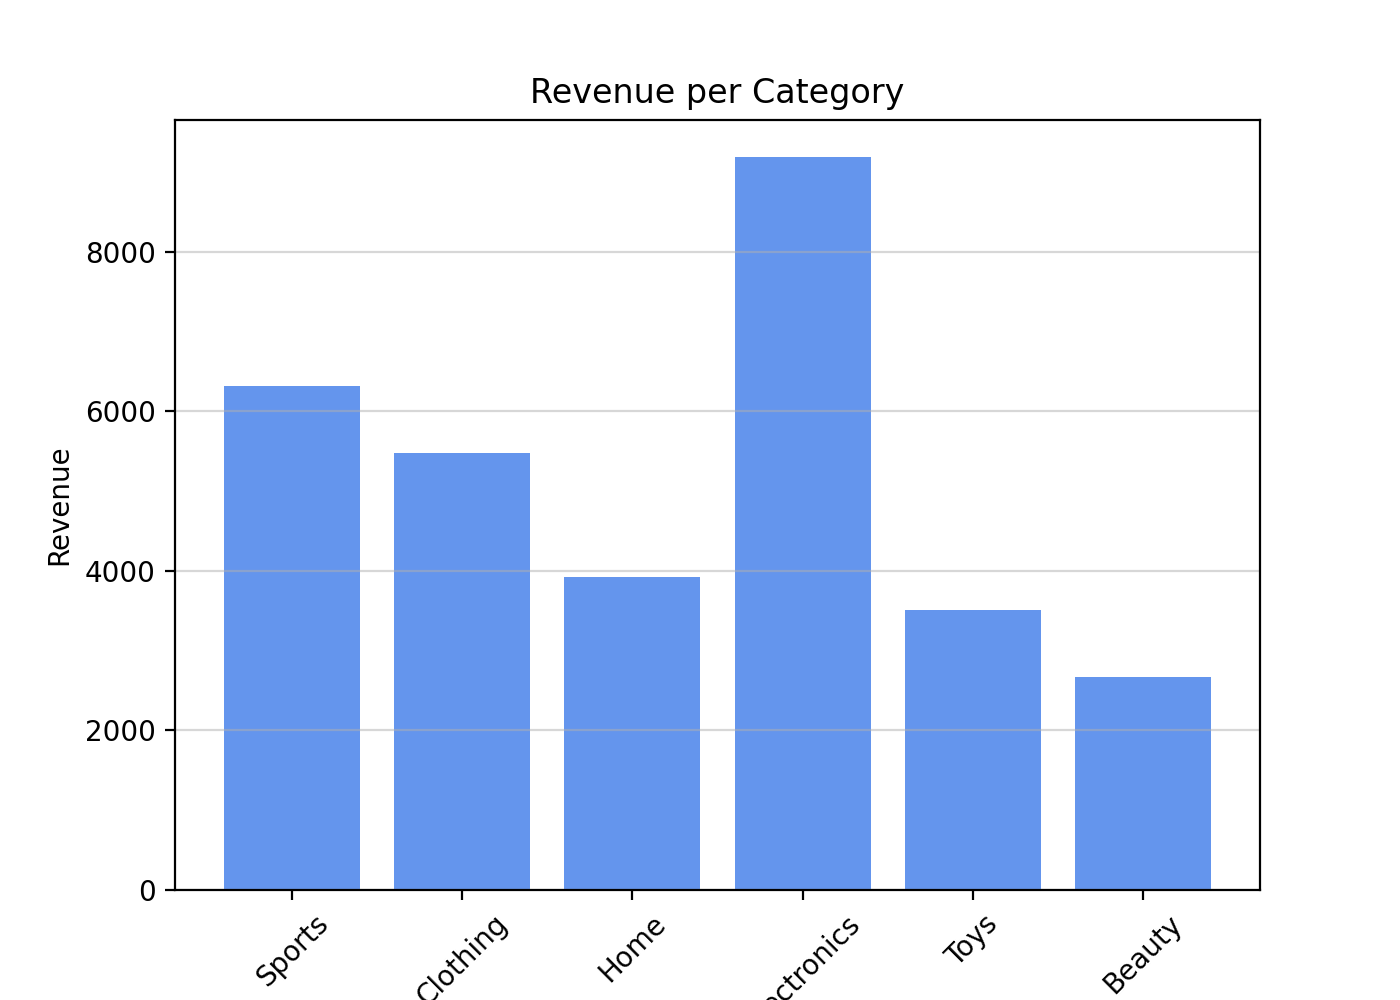
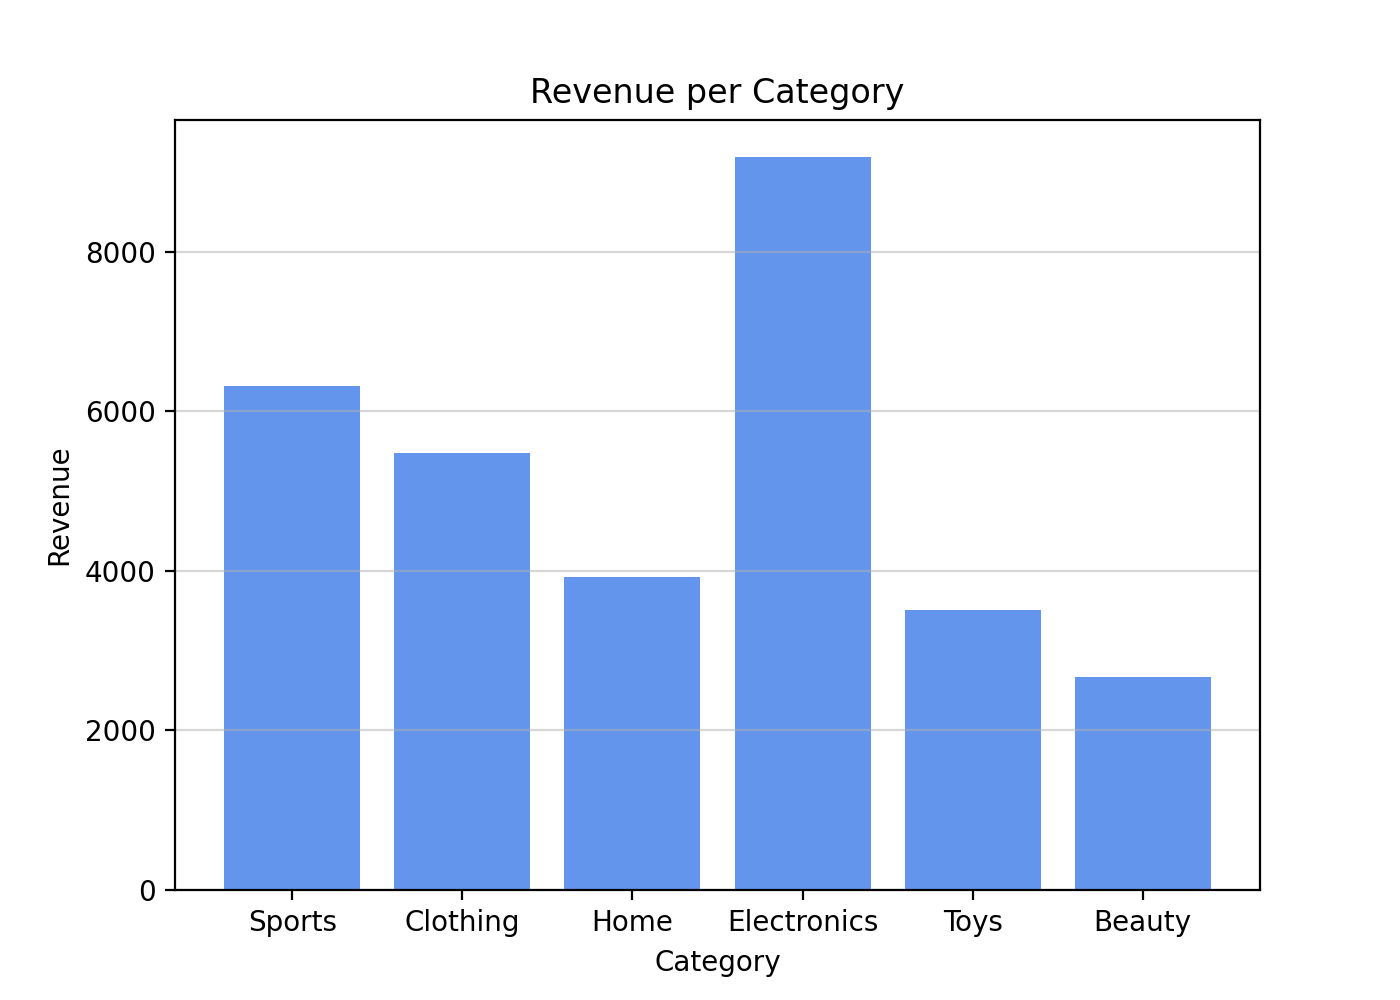
Adjusted minor things

diff --git a/src/viz.py b/src/viz.py
@@ -1,6 +1,4 @@
 import matplotlib.pyplot as plt
-from src.io_utils import *
-from src.metrics import *
 
 # Function for bar plot
 def bar(ax, x, y, title, xlabel, ylabel, color, grid: bool = True):
@@ -9,7 +7,6 @@ def bar(ax, x, y, title, xlabel, ylabel, color, grid: bool = True):
     ax.set_xlabel(xlabel)
     ax.set_ylabel(ylabel)
     ax.grid(grid, axis="y", alpha=0.5)
-    plt.xticks(rotation=45)
     return ax
 
 # Function for line plots

diff --git a/src/io_utils.py b/src/io_utils.py
@@ -1,4 +1,3 @@
-import numpy as np
 import pandas as pd
 
 # Open and read the file
